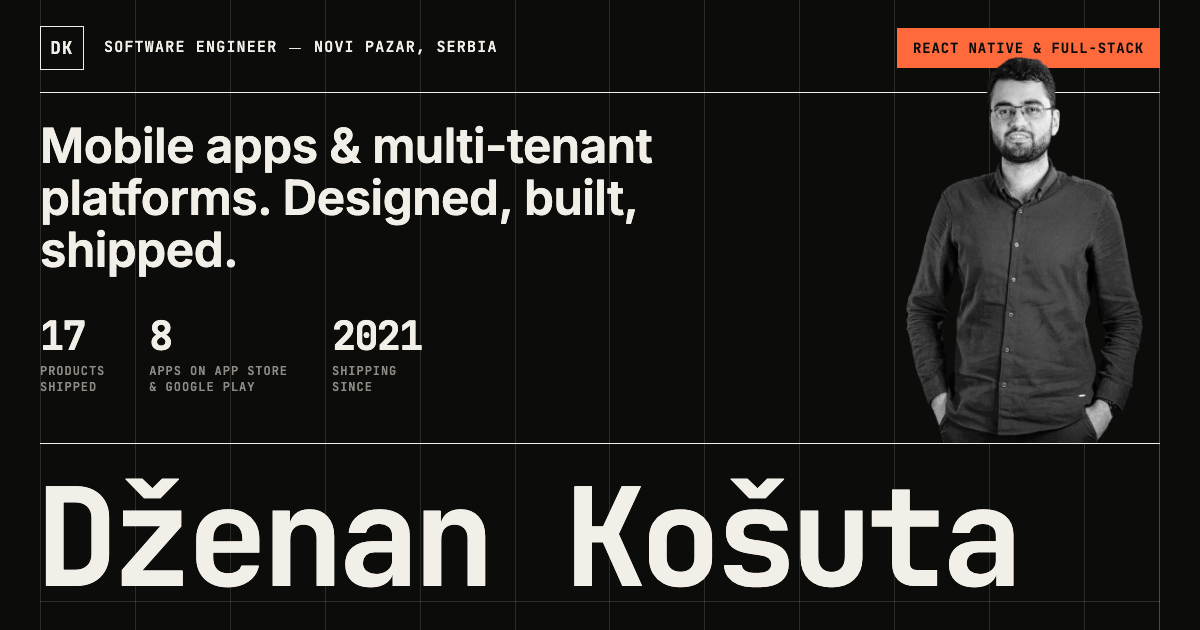
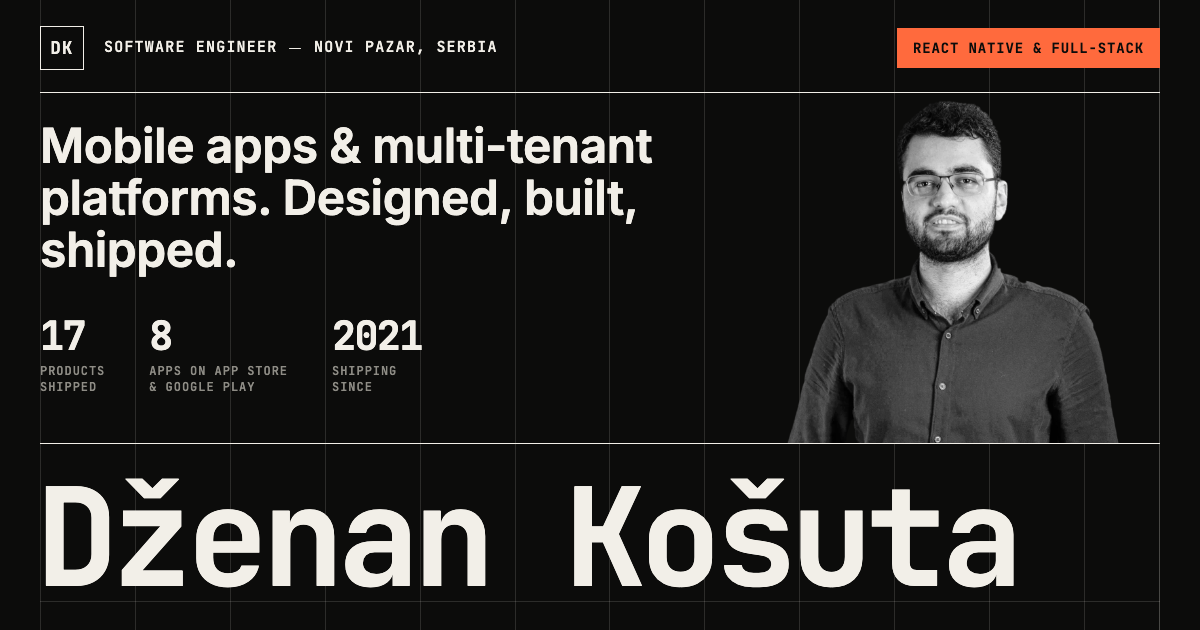
Use a chest-up portrait in a reworked hero title block
The details and the portrait now share the right column, with the photo
standing on the rule above the name; the copy gets the left two thirds.
The share image uses the same crop.

Changed region(s): [[0.6475, 0.0905, 0.9558, 0.7238]]

diff --git a/src/styles/_nav-hero.scss b/src/styles/_nav-hero.scss
@@ -406,26 +406,27 @@ body[data-menu-open] {
     }
 
     &__copy {
-      grid-column: 1 / 6;
+      grid-column: 1 / 9;
       grid-row: 3;
     }
 
-    &__meta {
-      grid-column: 6 / 9;
-      grid-row: 3;
-      padding-left: 0;
+    // title block: details on top, the portrait standing on the rule below
+    &__side {
+      grid-column: 9 / 13;
+      grid-row: 3 / 5;
+      align-self: stretch;
+      display: flex;
+      flex-direction: column;
     }
 
     &__portrait {
-      grid-column: 9 / 13;
-      grid-row: 3 / 5;
-      max-width: 404px;
-      margin-top: 8px;
+      margin-top: auto;
+      padding-top: 32px;
       margin-bottom: -1px;
     }
 
     &__stats {
-      grid-column: 1 / 10;
+      grid-column: 1 / 9;
       grid-row: 4;
       position: relative;
       z-index: 2;
@@ -462,33 +463,9 @@ body[data-menu-open] {
       line-height: 44px;
     }
 
-    &__copy {
-      grid-column: 1 / 7;
-    }
-
-    &__meta {
-      grid-column: 7 / 10;
-    }
-
-    &__portrait {
-      grid-column: 10 / 13;
-    }
-
-    &__stats {
-      grid-column: 1 / 11;
-      grid-template-columns: repeat(10, minmax(0, 1fr));
-
-      li {
-        grid-column: span 2;
-      }
-
-      li:last-child {
-        grid-column: span 4;
-      }
-    }
-
+    // four stats share two thirds of a small laptop: keep five-digit values inside their column
     &__stat-value {
-      font-size: 48px;
+      font-size: clamp(36px, 3.75vw, 48px);
     }
   }
 
@@ -505,8 +482,7 @@ body[data-menu-open] {
     }
 
     &__copy,
-    &__meta,
-    &__portrait,
+    &__side,
     &__stats {
       grid-column: 1 / -1;
     }
@@ -517,9 +493,8 @@ body[data-menu-open] {
     }
 
     &__portrait {
-      justify-self: center;
       max-width: 420px;
-      margin-top: 48px;
+      margin: 48px auto 0;
       border-bottom: 1px solid var(--color-line);
     }
 
